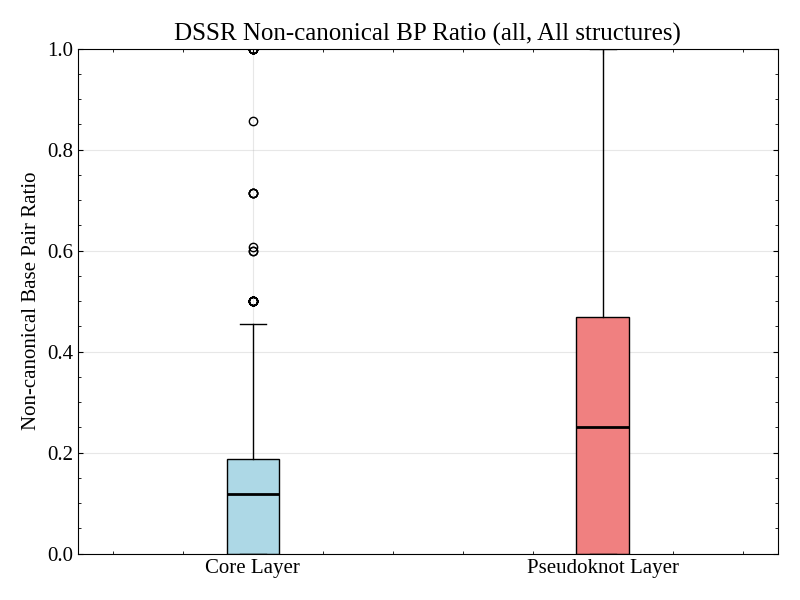
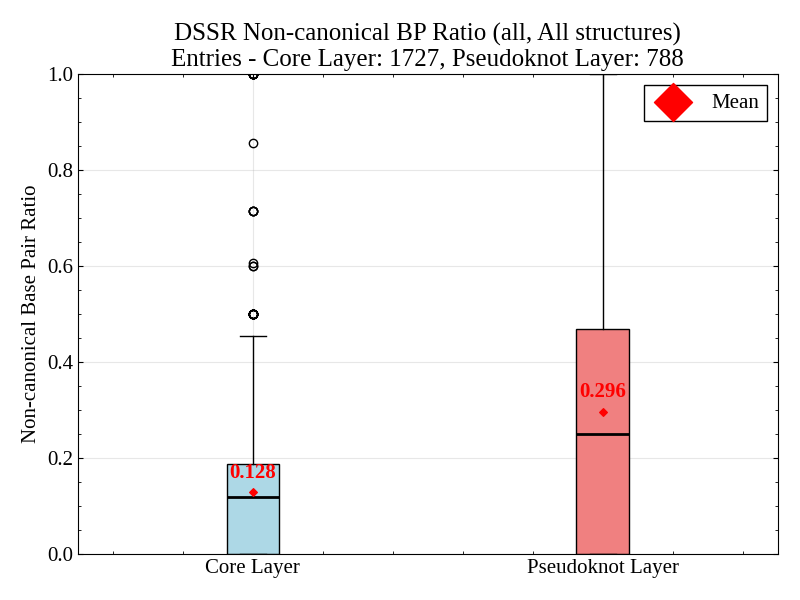
graph の菱形を小さくした

diff --git a/analysis/pseudoknotlayer_plotting.py b/analysis/pseudoknotlayer_plotting.py
@@ -2,6 +2,7 @@ import os
 import sys
 import json
 import pandas as pd
+import numpy as np
 import matplotlib.pyplot as plt
 import matplotlib.font_manager as fm
 from pathlib import Path
@@ -145,8 +146,22 @@ def create_noncanonical_ratio_boxplot(df, parser, variant, multilayer_only=False
         median.set_color('black')
         median.set_linewidth(2)
     
+    # 平均値を計算して表示
+    for i, data in enumerate(plot_data):
+        mean_val = np.mean(data)
+        plt.scatter(i + 1, mean_val, color='red', marker='D', s=15, zorder=5, label='Mean' if i == 0 else "")
+        plt.text(i + 1, mean_val + 0.02, f'{mean_val:.3f}', ha='center', va='bottom', fontweight='bold', color='red')
+    
+    # 凡例を追加（平均値用）
+    plt.legend(loc='upper right')
+    
     plt.ylabel('Non-canonical Base Pair Ratio')
-    plt.title(f'{parser.upper()} Non-canonical BP Ratio ({variant}, {layer_type})')
+    
+    # タイトルにエントリ数を追加
+    entry_counts = [len(data) for data in plot_data]
+    entry_info = ", ".join([f"{labels[i]}: {count}" for i, count in enumerate(entry_counts)])
+    plt.title(f'{parser.upper()} Non-canonical BP Ratio ({variant}, {layer_type})\nEntries - {entry_info}')
+    
     plt.ylim(0, 1)
     plt.grid(True, alpha=0.3)
     plt.tight_layout()
@@ -159,6 +174,67 @@ def create_noncanonical_ratio_boxplot(df, parser, variant, multilayer_only=False
     print(f"  Core Layer: {len(main_layer_ratios)} structures")
     print(f"  Pseudoknot Layer: {len(pk_layer_ratios)} structures")
     plt.close()
+
+def create_weighted_pie_charts(df, parser, variant, multilayer_only=False):
+    """
+    塩基対数ベースの重み付けでpie chartを作成
+    （構造の大きさに比例した重み付け）
+    
+    Args:
+        df: DataFrame with the analysis data
+        parser: Parser name (rnaview or dssr)
+        variant: Variant name (canonical_only or all)
+        multilayer_only: If True, include only multilayer structures; if False, include all structures
+    """
+    # データフィルタリング
+    if multilayer_only:
+        sub_df = df[df['is_multilayer'] == True].copy()
+        layer_type = "Multilayer"
+    else:
+        sub_df = df.copy()
+        layer_type = "All structures"
+    
+    if len(sub_df) == 0:
+        print(f"No data available for weighted pie chart: {parser} ({variant}, {layer_type})")
+        return
+    
+    # 塩基対数ベースで重み付けして計算
+    mainlayer_counts = pd.Series({
+        'Canonical': sub_df['canonical_bp_in_main_layer'].sum(),
+        'Non-Canonical': sub_df['non_canonical_bp_in_main_layer'].sum()
+    })
+    
+    pseudoknotlayer_counts = pd.Series({
+        'Canonical': sub_df['canonical_bp_in_pk_layer'].sum(),
+        'Non-Canonical': sub_df['non_canonical_bp_in_pk_layer'].sum()
+    })
+    
+    # 各レイヤーのpie chartを作成
+    for counts, title in zip(
+        [mainlayer_counts, pseudoknotlayer_counts],
+        ['MainLayer', 'PseudoknotLayer']
+    ):
+        # データが存在する場合のみプロット
+        if counts.sum() > 0:
+            plt.figure()
+            counts.plot.pie(
+                autopct='%1.1f%%',
+                labels=['Canonical', 'Non-Canonical'],
+                startangle=90,
+                title=f'{title} {parser.upper()} ({layer_type}) - Weighted by BP count\nTotal BPs: {int(counts.sum())}'
+            )
+            plt.ylabel('')
+            plt.tight_layout()
+            
+            multilayer_suffix = "multilayer" if multilayer_only else "including_singlelayer"
+            fn = f'pie_weighted_{title}_{multilayer_suffix}_{variant}.png'
+            plt.savefig(os.path.join(output_dir, parser, fn))
+            print(f"Saved weighted pie chart for {parser} ({variant}, {layer_type}, {title}) to {output_dir / parser / fn}")
+            print(f"  Total BPs: {int(counts.sum())}, Canonical: {counts['Canonical']}, Non-Canonical: {counts['Non-Canonical']}")
+            plt.close()
+        else:
+            print(f"No base pairs found for {title} in {parser} ({variant}, {layer_type})")
+
 
 for parser in parsers:
     for variant in ['canonical_only', 'all']:
@@ -220,6 +296,10 @@ for parser in parsers:
             # Box plot for non-canonical ratios
             create_noncanonical_ratio_boxplot(df, parser, variant, multilayer_only=True)
             create_noncanonical_ratio_boxplot(df, parser, variant, multilayer_only=False)
+
+            # Weighted pie charts (新しく追加)
+            create_weighted_pie_charts(df, parser, variant, multilayer_only=True)
+            create_weighted_pie_charts(df, parser, variant, multilayer_only=False)
 
             for multilayer in [True, False]:
                 if multilayer:
